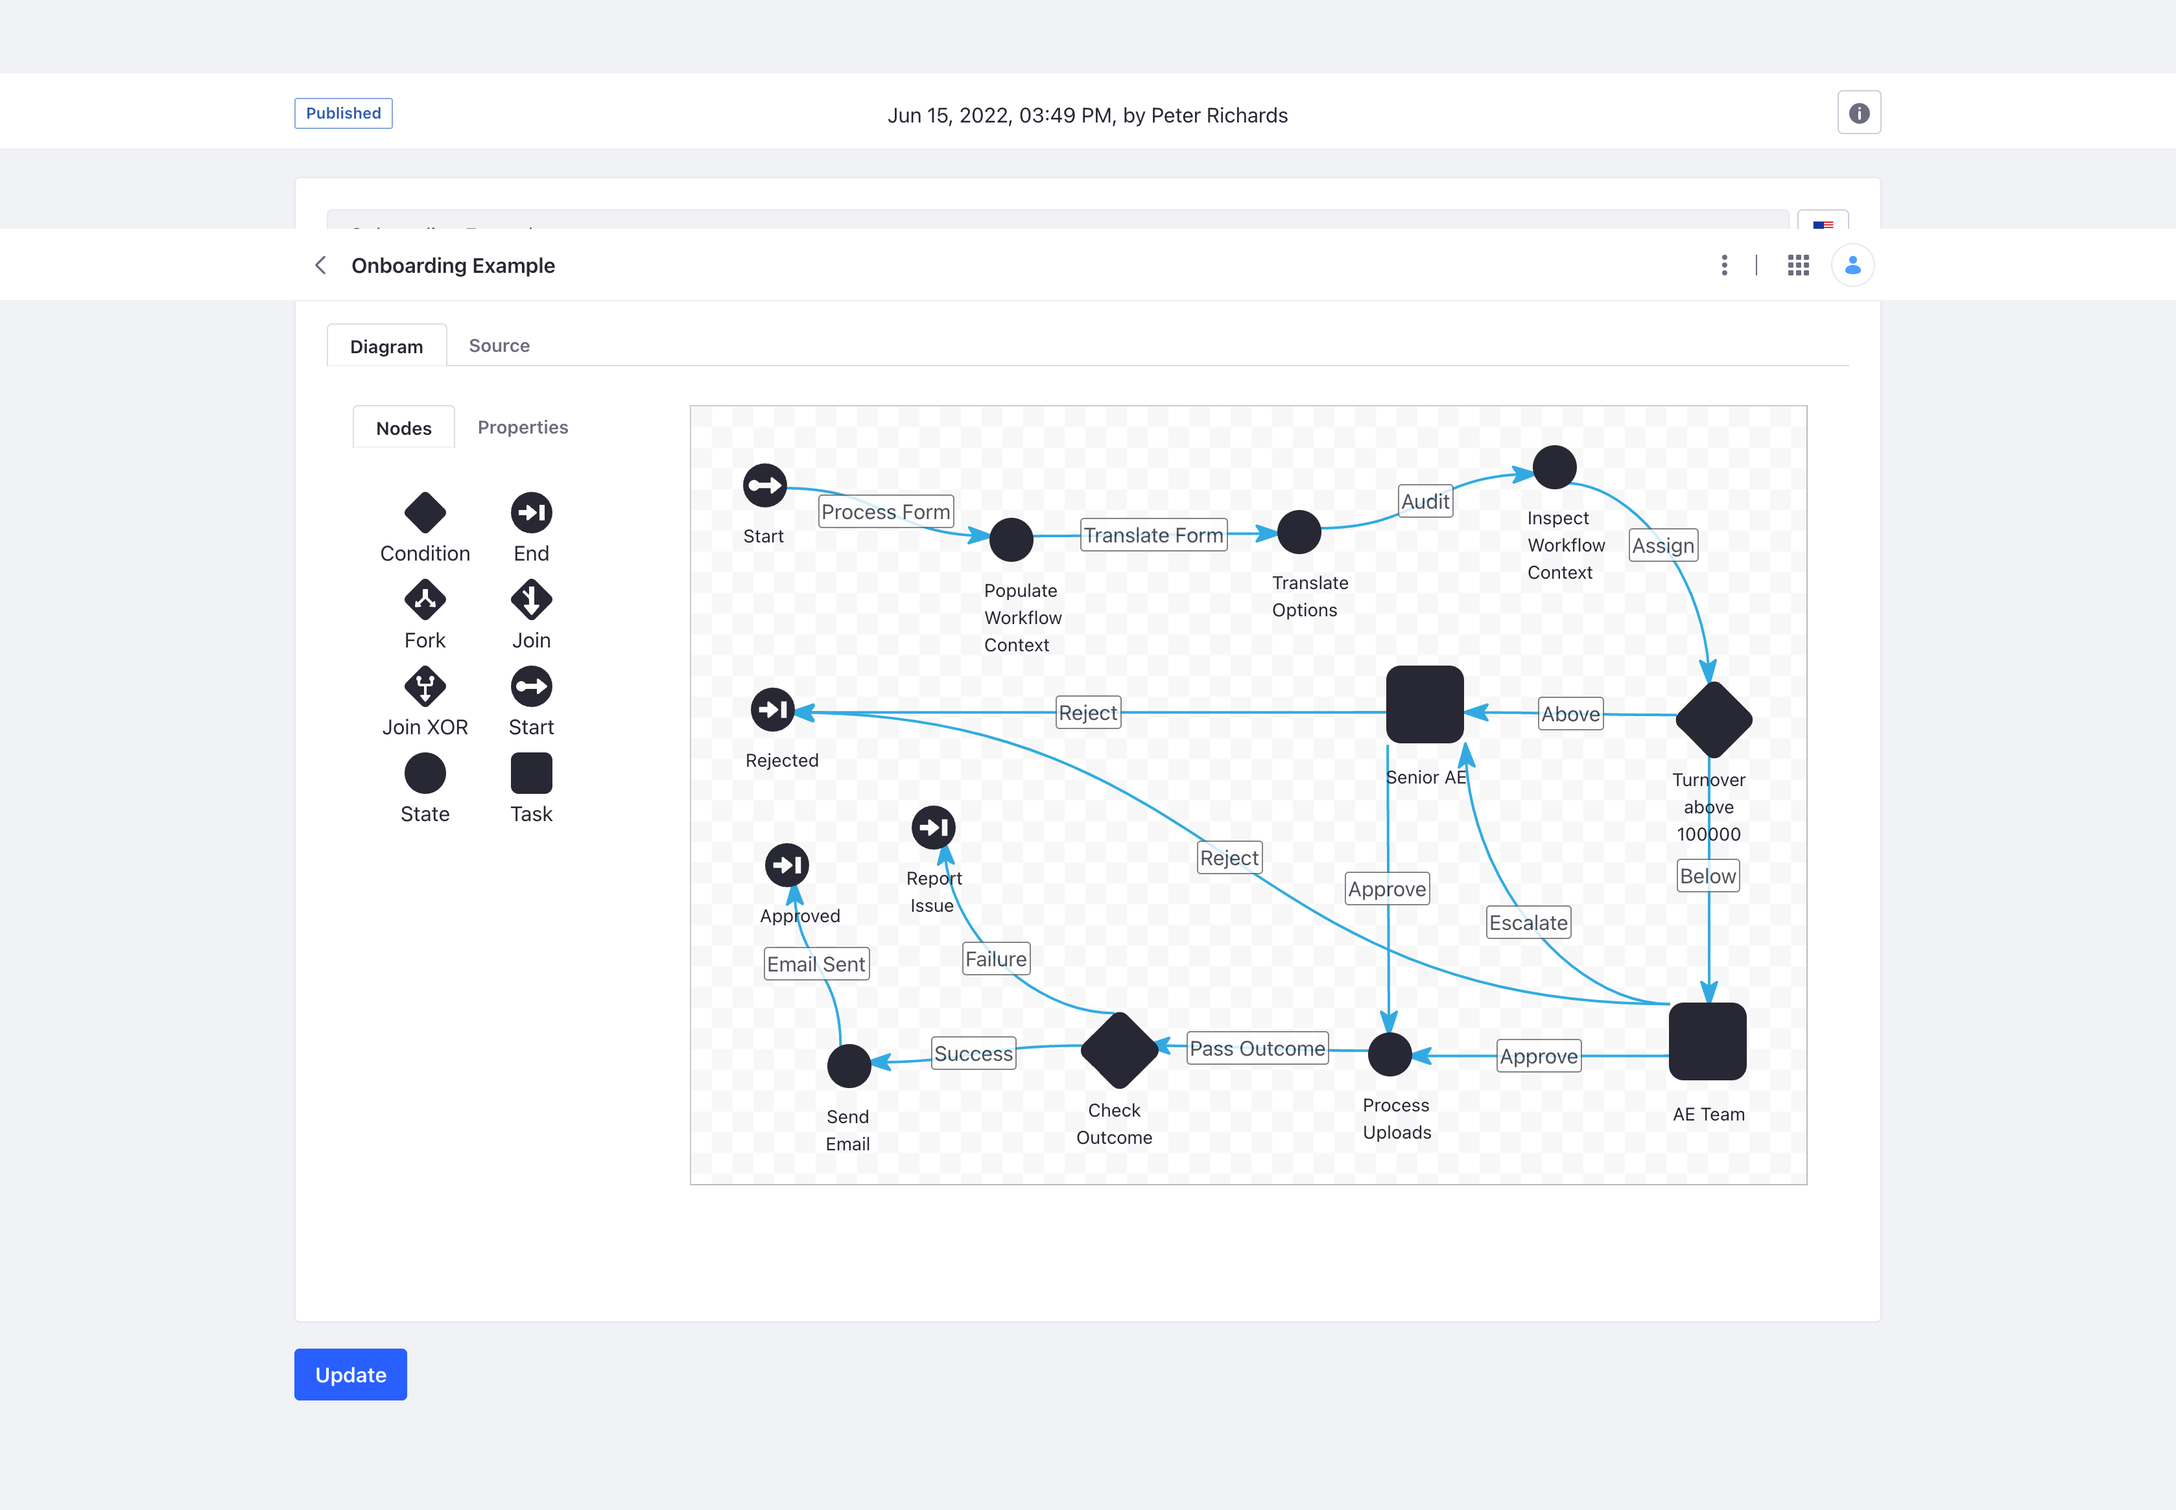
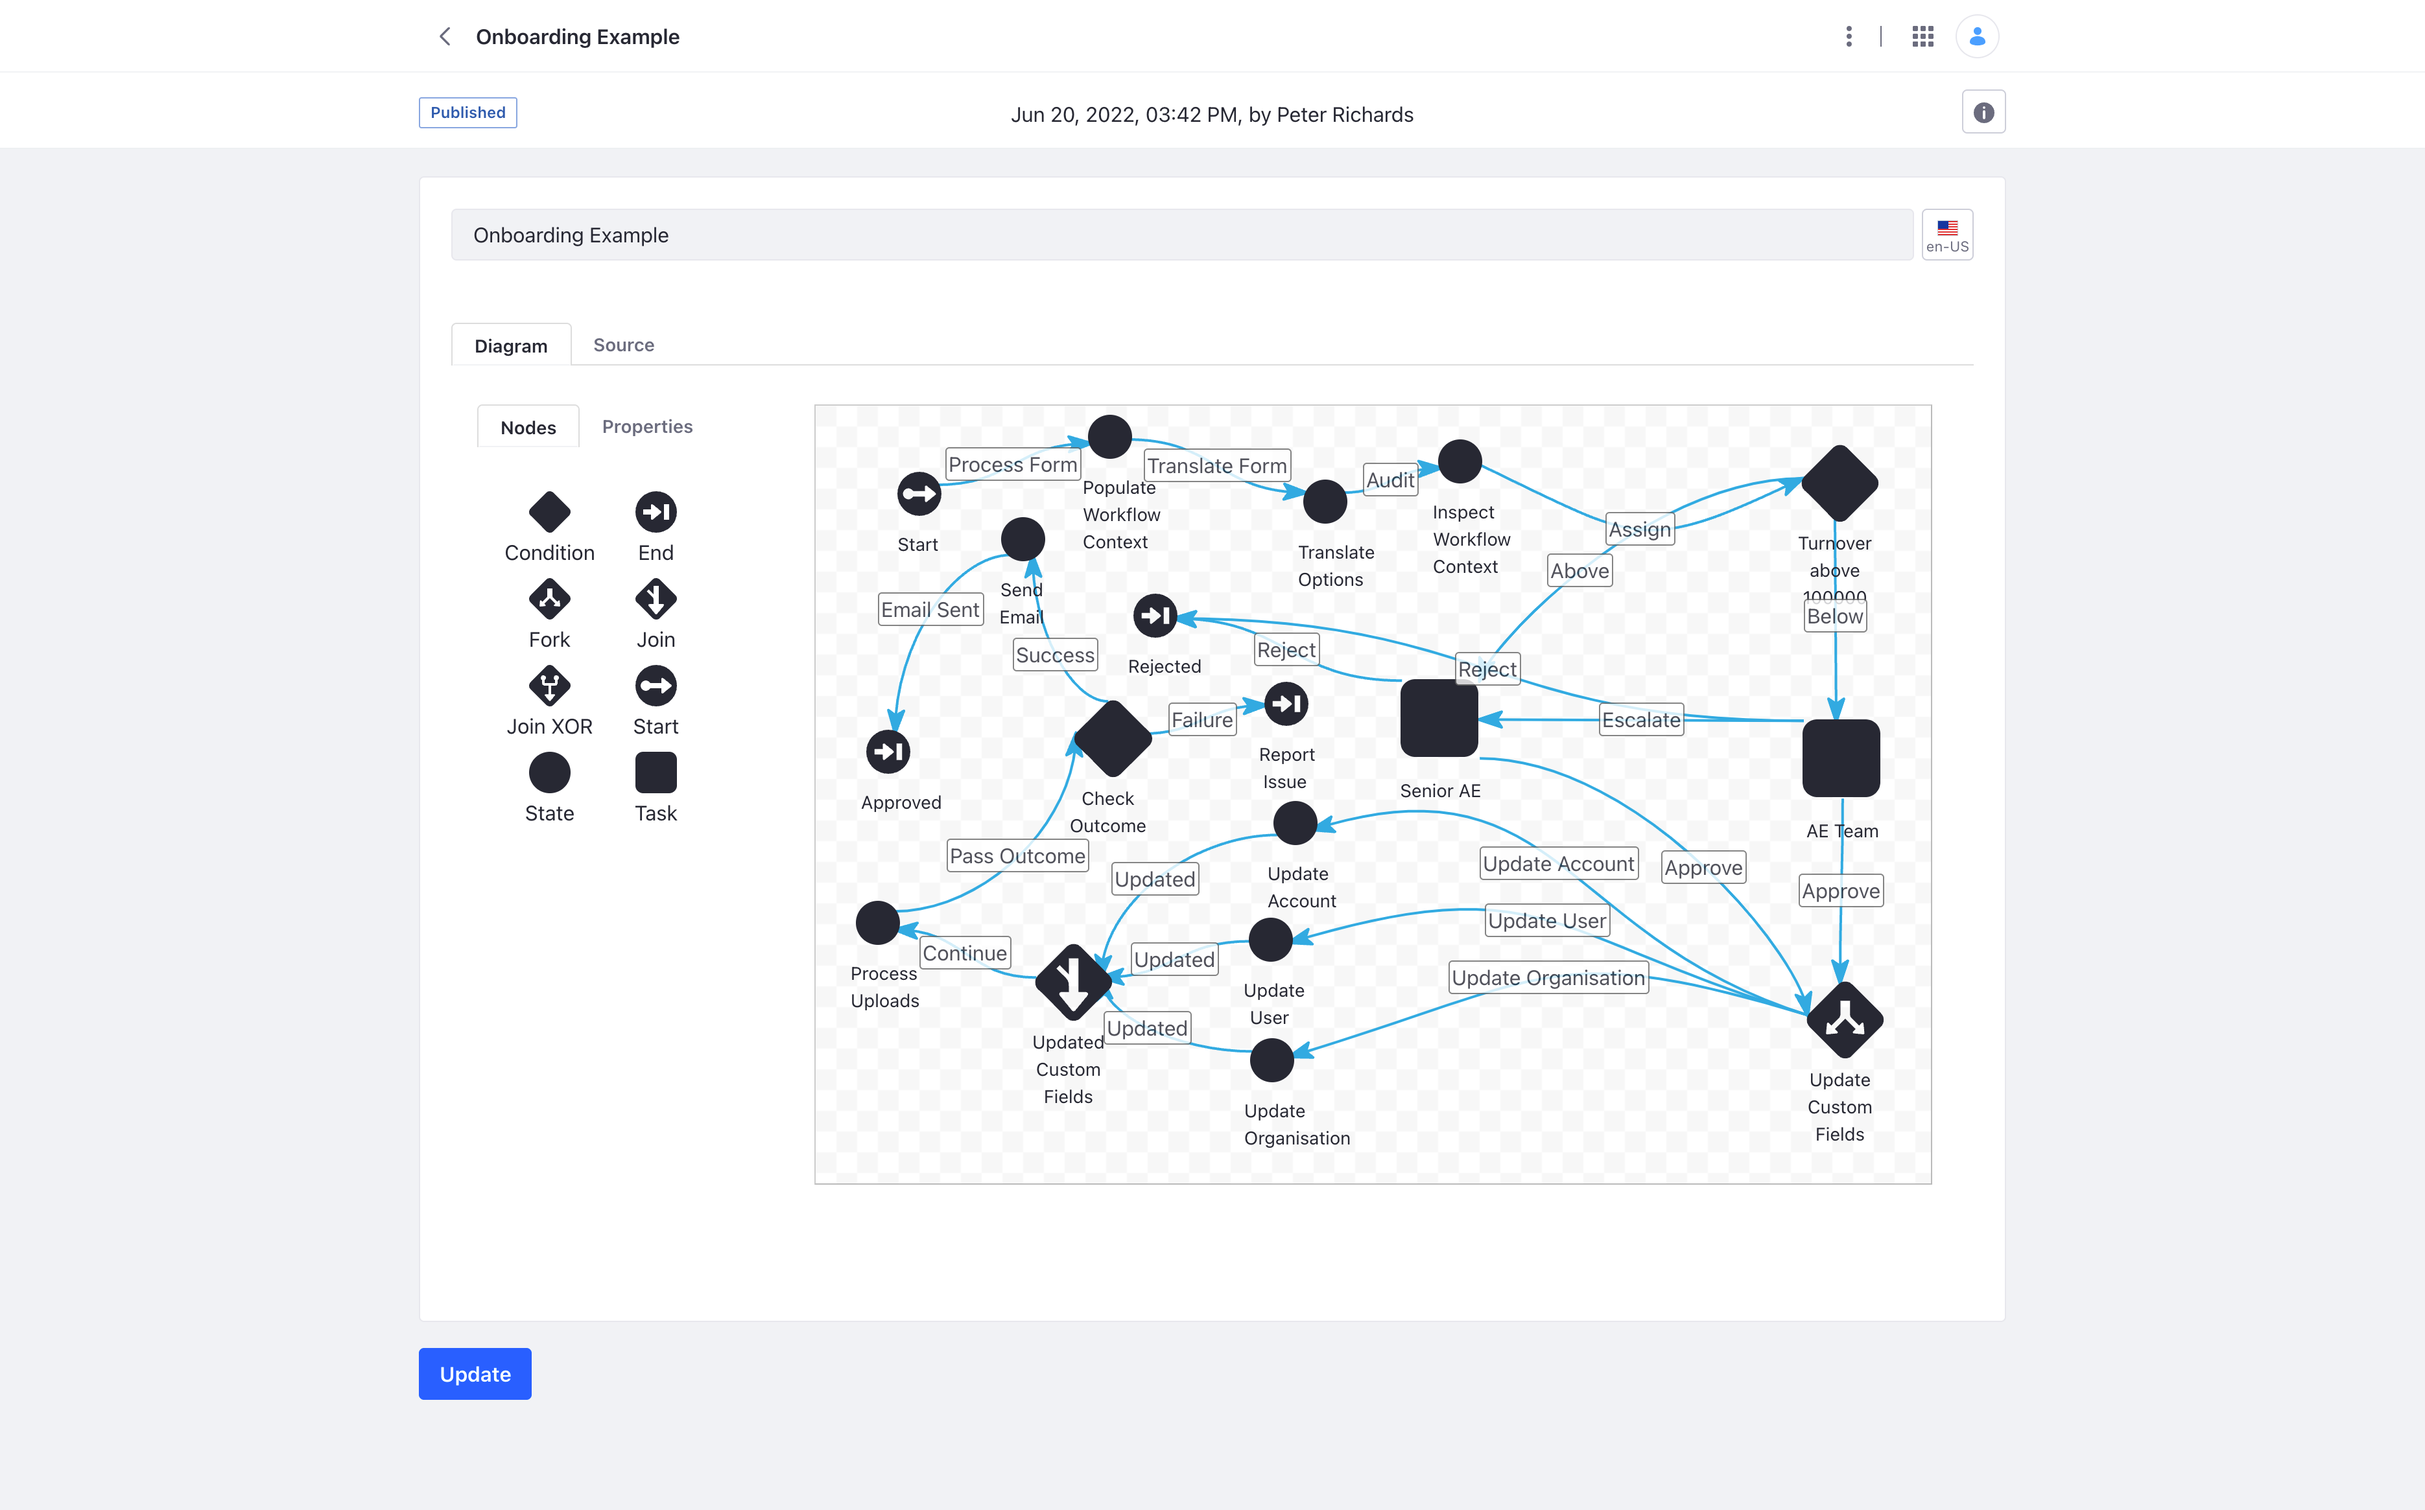
Updated documentation, use case example and included exported configuration

diff --git a/modules/dynamic-data-mapping-upload-processor/src/main/java/com/liferay/workflow/dynamic/data/mapping/upload/processor/constants/DDMFormUploadProcessorConstants.java b/modules/dynamic-data-mapping-upload-processor/src/main/java/com/liferay/workflow/dynamic/data/mapping/upload/processor/constants/DDMFormUploadProcessorConstants.java
@@ -3,7 +3,7 @@ package com.liferay.workflow.dynamic.data.mapping.upload.processor.constants;
 public final class DDMFormUploadProcessorConstants {
     public static final String CONFIG_ALWAYS_CREATE_FOLDER_DEFAULT = "false";
     public static final String CONFIG_PARENT_FOLDER_IDENTIFIER_DEFAULT = "0";
-    public static final String CONFIG_FOLDER_NAME_WORKFLOW_CONTEXT_KEY_DEFAULT = "full-name";
+    public static final String CONFIG_FOLDER_NAME_WORKFLOW_CONTEXT_KEY_DEFAULT = "companyName";
     public static final String CONFIG_USE_WORKFLOW_CONTEXT_KEY_FOR_FOLDER_NAME_DEFAULT = "false";
     public static final String CONFIG_FOLDER_NAME_USER_ATTRIBUTE_DEFAULT = "screen-name";
 }

diff --git a/docs/README.md b/docs/README.md
@@ -94,11 +94,15 @@ This module is dependent on the Workflow Extensions Common module.
 
 ## Custom Field Updater
 
-This module is used to update one or more custom field on a user, account or organisation entity. A single instance can only update a single entity type but multiple instances can existing within a single workflow 
+This module is used to update one or more custom field on a user, account or organisation entity. A single instance can
+only update a single entity type but multiple instances can existing within a single workflow
 
-The custom updater needs a user context in which to perform the update. It can use the in-context user or a specific user can be looked up by email address, screen name or user id. The user lookup value can be stored in configuration or extracted from a workflow context key.
+The custom updater needs a user context in which to perform the update. It can use the in-context user or a specific
+user can be looked up by email address, screen name or user id. The user lookup value can be stored in configuration or
+extracted from a workflow context key.
 
-The entity can be looked up using different methods depending on the entity type. The lookup value can be stored in configuration or taken from the workflow context
+The entity can be looked up using different methods depending on the entity type. The lookup value can be stored in
+configuration or taken from the workflow context
 
 The module can be configured on a per workflow:node:action basis.
 

diff --git a/docs/example/README.md b/docs/example/README.md
@@ -57,3 +57,11 @@ The following shows the example of the use case where the annual turnover is bel
 ![Notification](images/snacksly-notification.png)
 
 ![Email](images/snacksly-email.png)
+
+### Update Custom Fields
+
+This section of the workflow shows how a fork / join can be used to complete several steps in parallel.
+
+There are three instances of the Custom Field Updater, e.g. account, organisation and user. Each of these instances
+have their own configuration based on their unique workflow:node:action identifier. The configuration is such that the
+same type of extension can handle all three type of entity.
